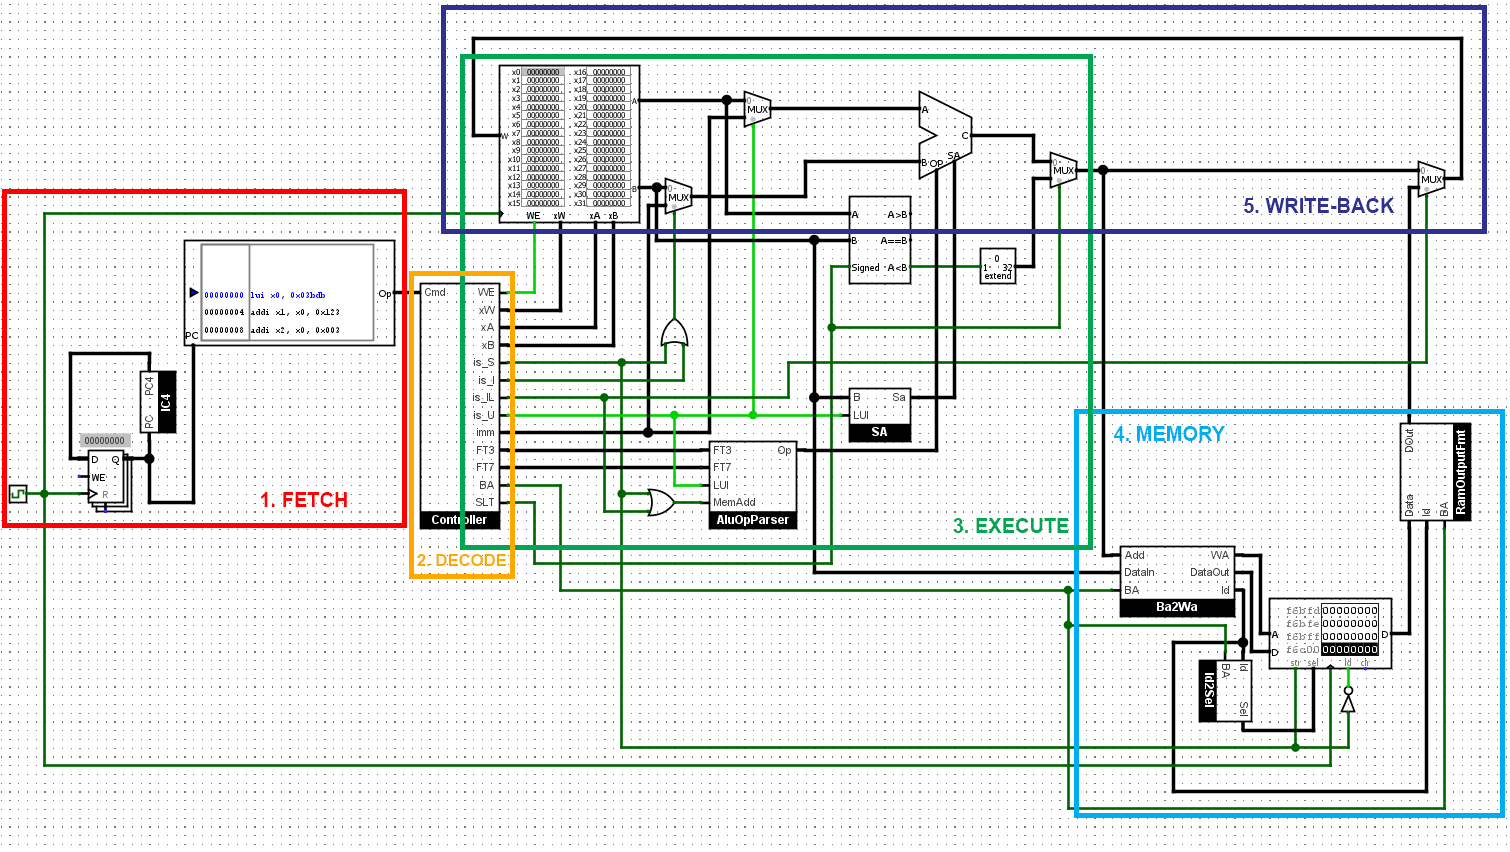
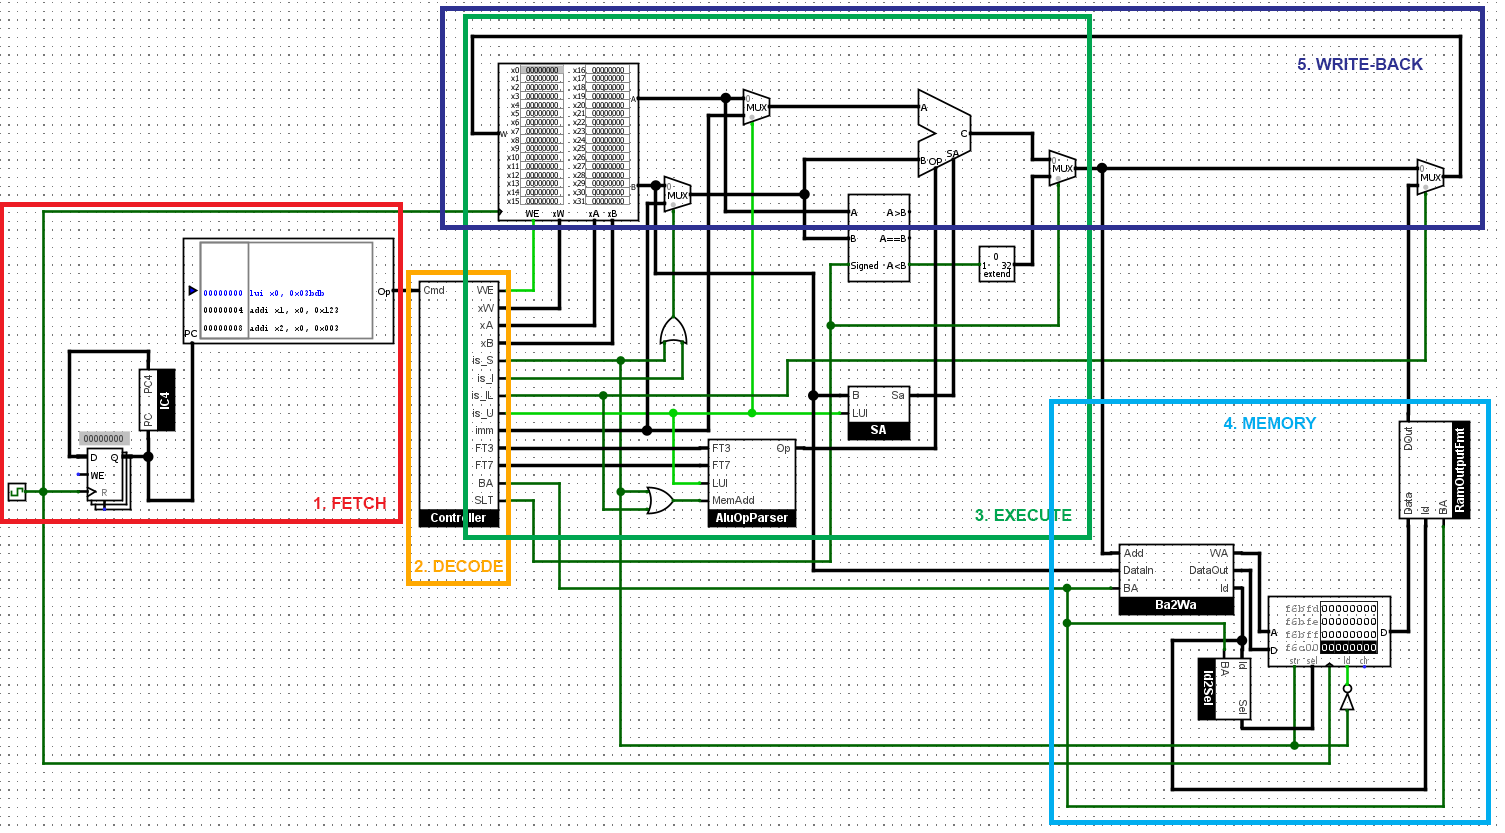
updated test, fixed comparator wiring, added docs

Changed region(s): [[0.0, 0.0, 0.9993, 0.9988]]

diff --git a/documentation.md b/documentation.md
@@ -287,7 +287,15 @@ Below is the table of instruction formats, relevant signals, the data origin/des
 
 ### SLL, SRA, LUI
 
+These 3 instructions are shifting instructions, with `LUI` having a constant shift amount and direction (`SLL` 12 bits). To avoid the complexity of handling different instructions that do the same thing, a separate circuit SA is needed to obtain the shift amount and feed it to the SA port of the ALU.
+
+The xB port of the register file is directly connected to the SA circuit, instead of the MUX output of that port, since there is no shifting instruction that uses `imm` shift amount.
+
 ### SLT, SLTI
+
+These instructions check if the value `R[rs1]` is smaller than either the value of `R[rs2]` (`SLT`) or `imm` (`SLTI`). Since this instruction is not available in the ALU but in the blackbox comparator instead, the wire from port xA and another one from the MUX in front of the xB port of the register file is connected to the comparator.
+
+The signal `SLT` is activated whenever the instruction is either `SLT` or `SLTI`, and is connected to the `Signed` port of the comparator to indicate signed integer comparison. It is also connected to the outer MUX selector before the write-back MUX to select the zero-extended comparator output.
 
 ## Testing strategy
 
